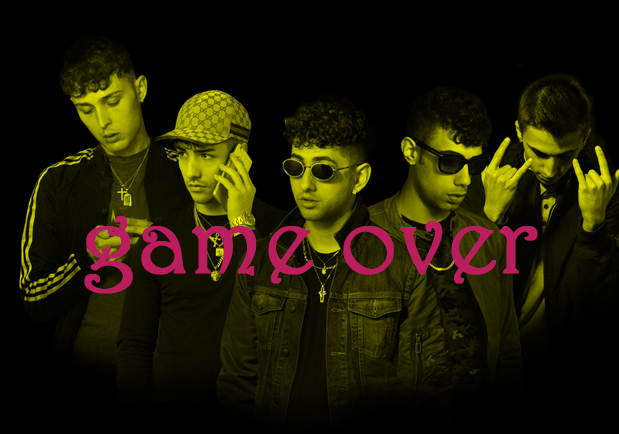
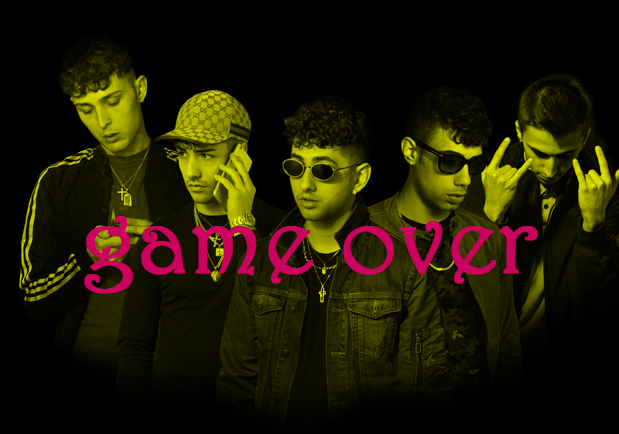
Fixes Image on Game Over

Changed region(s): [[0.1228, 0.4793, 0.5218, 0.6889], [0.5525, 0.5092, 0.8901, 0.659]]

diff --git a/Beta/777/Personaggio.cpp b/Beta/777/Personaggio.cpp
@@ -154,10 +154,10 @@ void Personaggio::fineGioco(RenderWindow &Gioco)
         sfondoTony.setPosition(0,0);
         Gioco.draw(sfondoTony);
         // disegno la faccia di Tony
-        int larghezza_immagine=600, altezza_immagine=700;
+        int larghezza_immagine=619, altezza_immagine=434;
         int posizione_x=0, posizione_y=0;
         Texture immagine;
-        immagine.loadFromFile("../risorse/immagini/tony.png");
+        immagine.loadFromFile("../risorse/immagini/game-over.png");
         Sprite tony(immagine);
         posizione_x=(util.LARGHEZZA_DISPLAY-larghezza_immagine)/2;
         posizione_y=(util.ALTEZZA_DISPLAY-altezza_immagine)/2;

diff --git a/README.md b/README.md
@@ -14,7 +14,7 @@ per lo sviluppo ocorre:
 Aver installato la libreria SFML
 ```
 
-### Installazione:
+### Installare SFML:
 
 #### Piattaforma Linux
 
@@ -26,13 +26,9 @@ sudo apt-get install libsfml-dev
 
 #### Piattaforma Windows
 
-Per l'installazione è sufficiente:
+##### Visual Studio
 
-```
-Scaricare SFML da internet e aggiungerlo alla cartella  del programma
-```
-
-In caso non dovesse funzionare sara necessario aggiungere il percorso di SFML alle variabili di sistema e alla "cmake-list.txt" del programma.
+https://www.sfml-dev.org/tutorials/2.4/start-vc.php
 
 #### Piattaforma OSX
 
